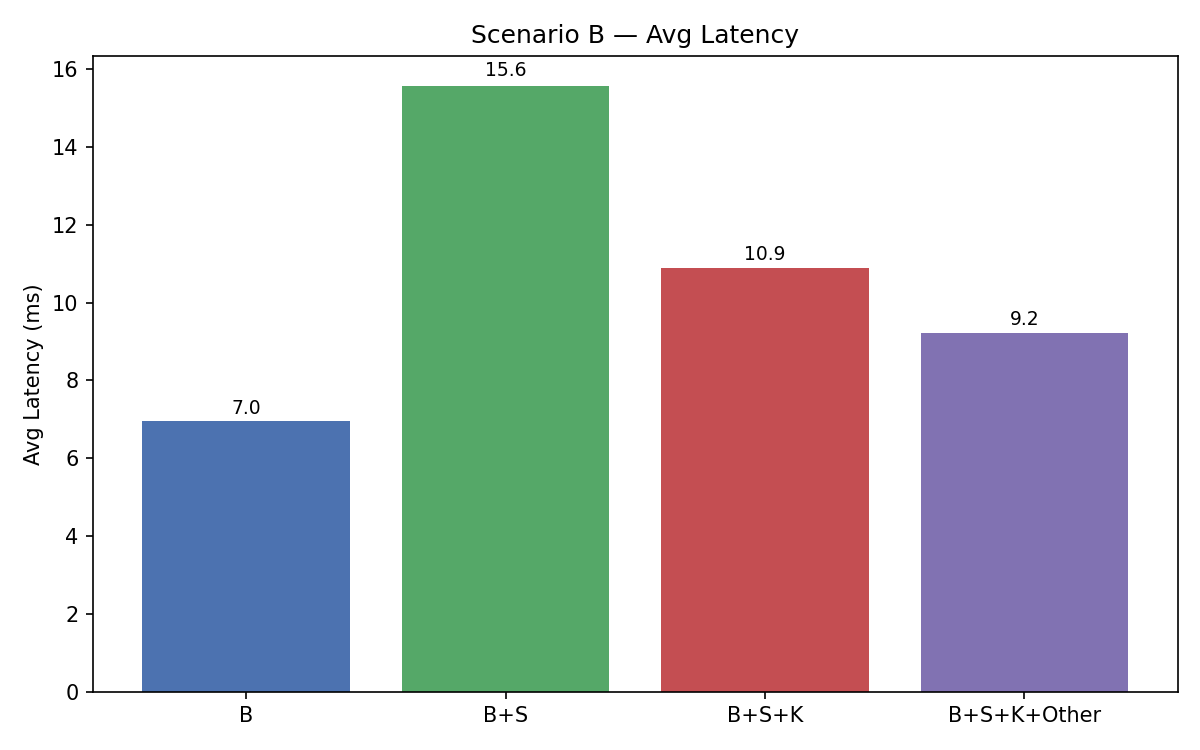
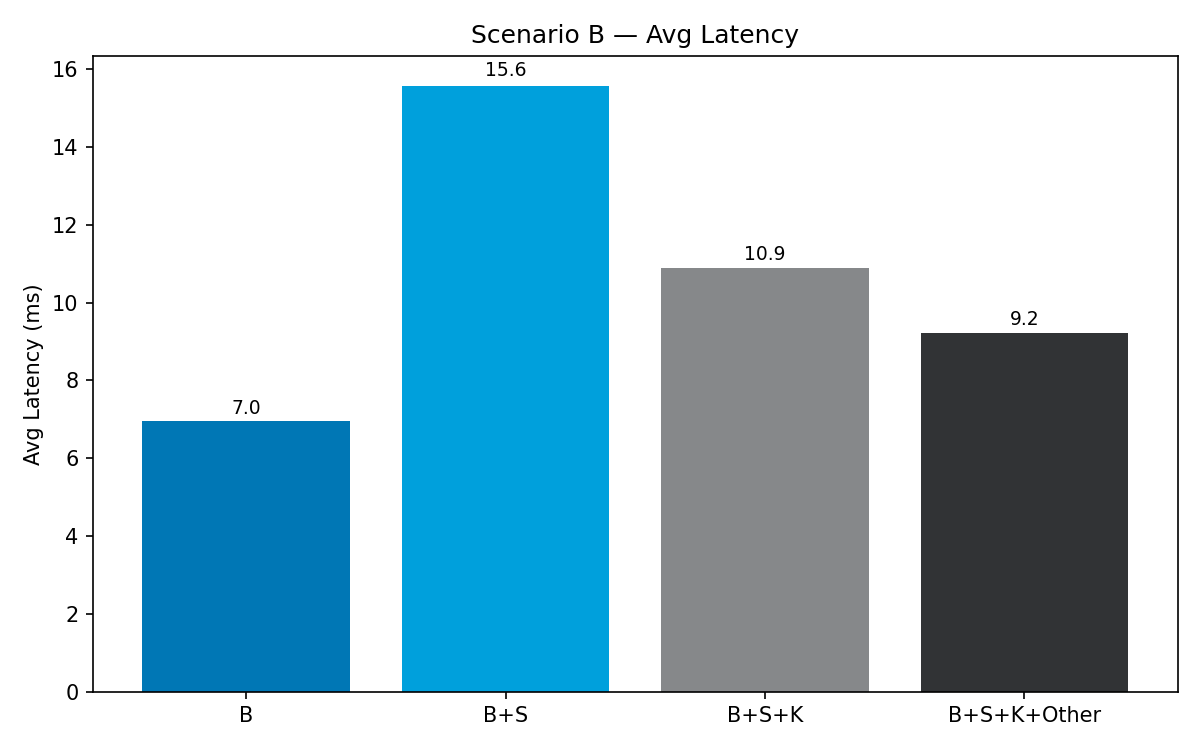
Update chart colors to LinkedIn brand palette

diff --git a/benchmarks/plot_results.py b/benchmarks/plot_results.py
@@ -44,7 +44,7 @@ def compute_metrics(path: Path, labels: set) -> dict:
 
 def bar_chart(values, configs, ylabel, title, out_path):
     fig, ax = plt.subplots(figsize=(8, 5))
-    bars = ax.bar(configs, values, color=["#4C72B0", "#55A868", "#C44E52", "#8172B2"])
+    bars = ax.bar(configs, values, color=["#0077B5", "#00A0DC", "#86888A", "#313335"])
     ax.set_ylabel(ylabel)
     ax.set_title(title)
     for bar, val in zip(bars, values):
